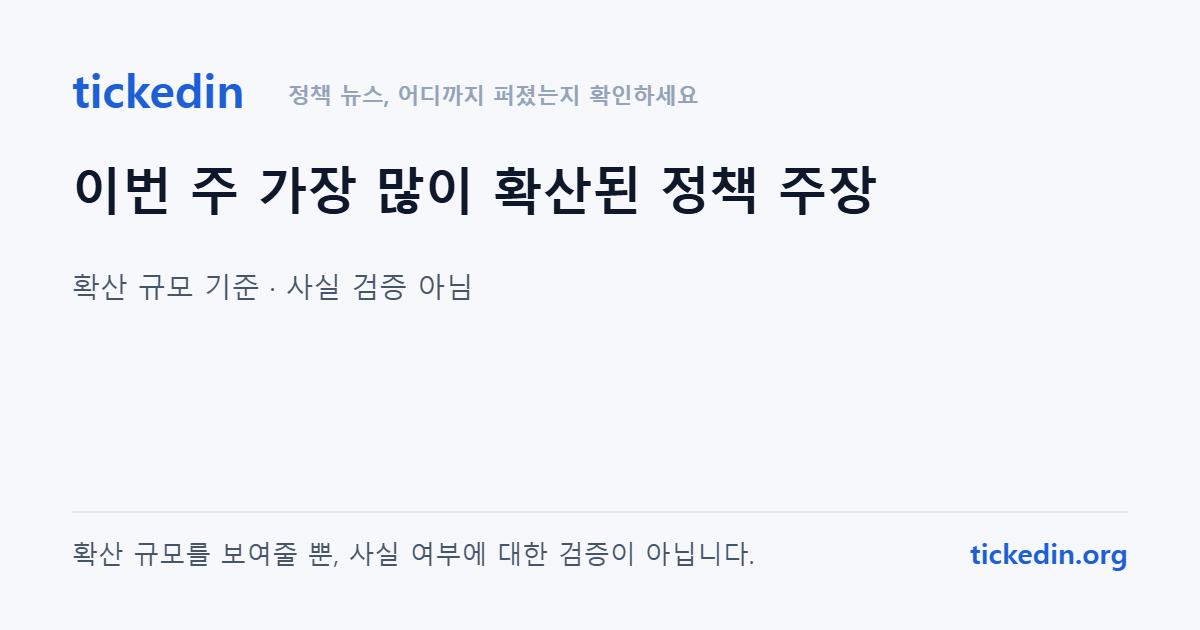
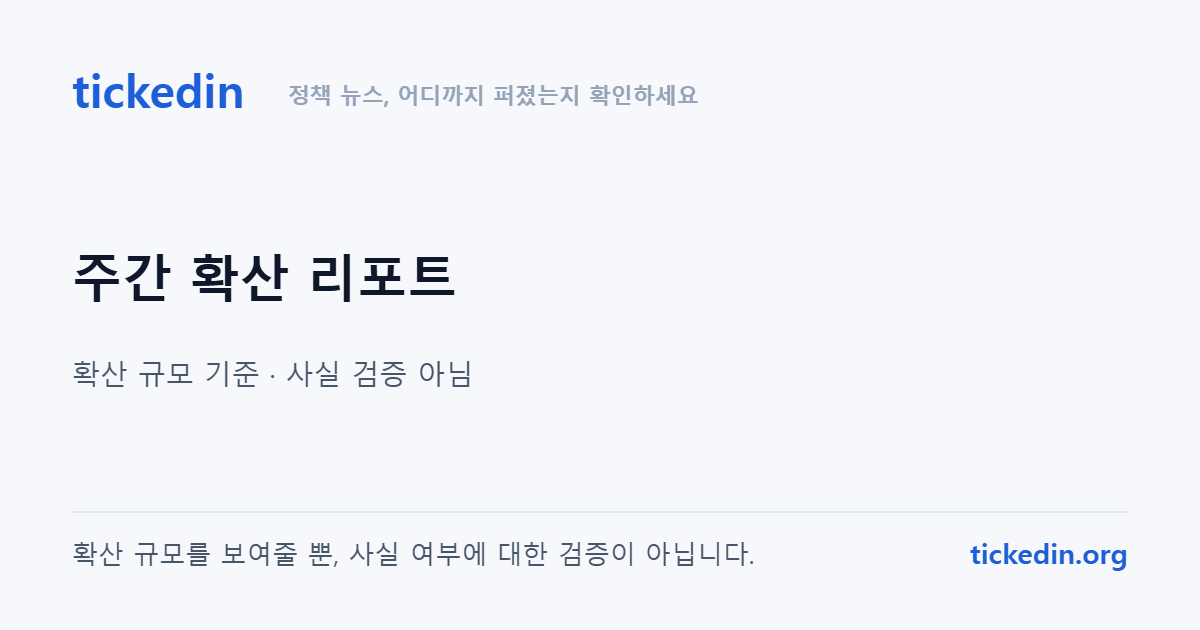
IMAGE-ASSETS regenerate previews with week neutral copy and centered layout
The weekly preview headline said 이번 주, but weekly.html also serves
archive permalinks and og url is canonical without query parameters, so a
three week old report would preview as this week. That is the same label
inaccuracy already fixed on screen, so the headline is now the week
neutral 주간 확산 리포트.

The home preview headline was trimmed from the existing About paragraph
to two lines, nothing invented. All three text blocks now center between
the brand row and the divider, reusing the same arithmetic as the share
card empty state.

No numbers, counts or dates appear anywhere. Assets and one hand authored
alt string only, checksum unchanged at f76b4842.

diff --git a/web/weekly.html b/web/weekly.html
@@ -17,7 +17,7 @@
 <meta property="og:image:type" content="image/png">
 <meta property="og:image:width" content="1200">
 <meta property="og:image:height" content="630">
-<meta property="og:image:alt" content="tickedin 주간 확산 리포트 — 이번 주 가장 많이 확산된 정책 주장">
+<meta property="og:image:alt" content="tickedin 주간 확산 리포트 — 확산 규모 기준 · 사실 검증 아님">
 <meta name="twitter:card" content="summary_large_image">
 <meta name="twitter:title" content="주간 확산 리포트 — tickedin">
 <meta name="twitter:description" content="한 주 동안 가장 많이 확산된 정책 주장을 매체 수 기준으로 보여주는 주간 확산 리포트. 확산 규모 기준이며 사실 검증이 아닙니다.">